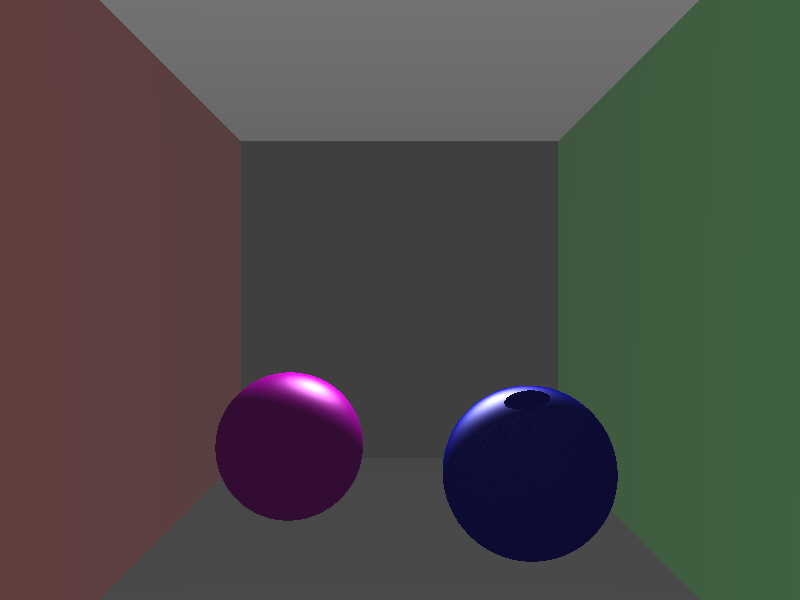
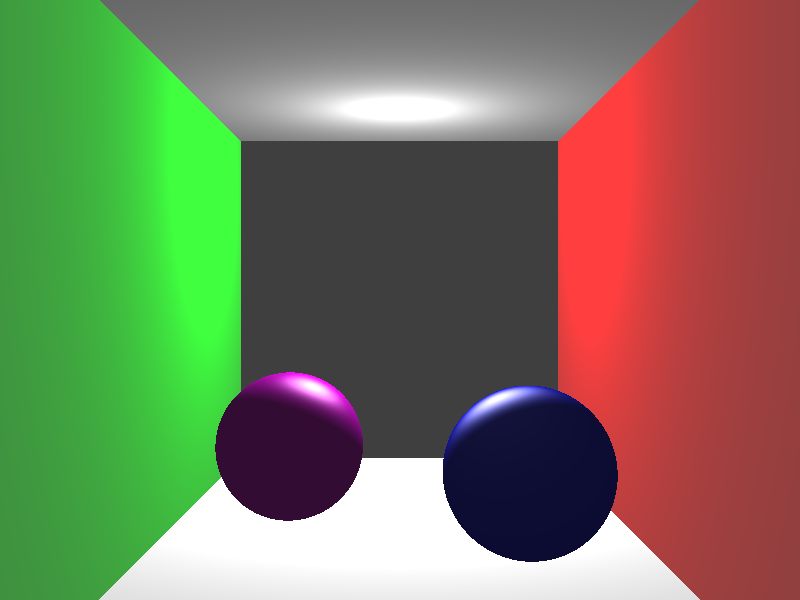
Fix Intersection on Planes

diff --git a/VCG_Raytracer/src/scene/shapes/Plane.java b/VCG_Raytracer/src/scene/shapes/Plane.java
@@ -45,41 +45,24 @@ public class Plane extends Shape {
 
     @Override
     public Intersection intersect(Ray ray) {
+        Intersection intersectionTest = new Intersection(ray, this);
         // Pn * D from slides
+        Vec3 vecToRay = getPosition().sub(ray.getStartPoint());
+        float angle = mNormal.scalar(ray.getDirection());
+        float t = vecToRay.scalar(mNormal) / angle;
 
-        float intersectionTestValue = mNormal.scalar( ray.getDirection() );
+        if (t < 0)
+            return intersectionTest;
 
-        if( intersectionTestValue < 0 ){
-            return new Intersection(ray, this);
-        } else{
-            return fillIntersectionInfo( ray, intersectionTestValue );
-        }
+        return createIntersection(intersectionTest, t, ray);
     }
 
-    private Intersection fillIntersectionInfo(Ray ray, float intersectionTestValue){
-
-        Intersection intersectionTest = new Intersection( ray, this );
-        intersectionTest.setHit( true );
-        intersectionTest.setIncoming( true );
-
-        float angle = this.getPosition().sub(ray.getStartPoint()).scalar( mNormal );
-
-        // Q from slides
-        float t = ( angle / intersectionTestValue );
-
-        Vec3 intersectionPoint = ray.getStartPoint().add( ray.getDirection().multScalar(t) );
-
-        intersectionTest.setIntersectionPoint( intersectionPoint );
-        intersectionTest.setNormal( mNormal );
-
-        t = Math.abs(t);
-
-        intersectionTest.setDistance( t );
-
-        //if( t > ray.getDistance() ){
-        //    return new Intersection(ray, this);
-        //}
-        intersectionTest.setIgnoreShadowing(true);
+    private Intersection createIntersection(Intersection intersectionTest, float t, Ray ray){
+        intersectionTest.setIntersectionPoint(ray.getDirection().multScalar(t).add(ray.getStartPoint()));
+        intersectionTest.setNormal(mNormal.normalize());
+        intersectionTest.setDistance(t);
+        intersectionTest.setHit(true);
+        intersectionTest.setIncoming(true);
 
         return intersectionTest;
     }

diff --git a/VCG_Raytracer/src/scene/shapes/Sphere.java b/VCG_Raytracer/src/scene/shapes/Sphere.java
@@ -31,24 +31,24 @@ public class Sphere extends Shape {
 
     private Intersection fillIntersectionInfo(Ray ray, float distanceToPosSq, Intersection intersectionTest, Vec3 distanceToPos) {
         float t;
-        float compB = distanceToPos.negate().scalar(ray.getDirection());
-        float compC = (compB * compB) - distanceToPosSq + (mRadius * mRadius);
+        float compB = -distanceToPos.scalar(ray.getDirection());
+        float discriminant = (compB * compB) - distanceToPosSq + mSqrRadius;
 
-        if (compC < 0.0f)
+        if (discriminant < 0.0f)
             return intersectionTest;
 
-        compC = (float) Math.sqrt(compC);
-        float t0 = compB - compC;
-        float t1 = compB + compC;
+        discriminant = (float) Math.sqrt(discriminant);
+        float t0 = compB - discriminant;
+        float t1 = compB + discriminant;
 
         if (t0 > 0 && t1 > 0)
             t = t0;
-        else if (t0 < 0.0f && t1 < 0)
-            return intersectionTest;
+        //else if (t0 < 0.0f && t1 < 0)
+        //    return intersectionTest;
         else if (t0 < 0.0f && t1 > 0)
             t = t1;
-        else if (t0 == t1)
-            t = t0;
+        //else if (t0 == t1)
+        //    t = t0;
         else
             return intersectionTest;
 

diff --git a/VCG_Raytracer/src/raytracer/Raytracer.java b/VCG_Raytracer/src/raytracer/Raytracer.java
@@ -107,7 +107,7 @@ public class Raytracer {
             Intersection lightIntersection = getIntersection(lightRay, Float.MAX_VALUE);
 
             // This is never happening! Is always != null: BAAAAADDD
-            if(!lightIntersection.isHit() || lightIntersection.isIgnoreShadowing()){
+            if(lightIntersection.isHit()){
                 // This was the last ray and nothing was hit on the ray from the last object to the light source
                 // Probably wrong. Calculating the color of each object traced, but must know, if there was light, too
                 for(Intersection stepIntersec : intersectList) {
